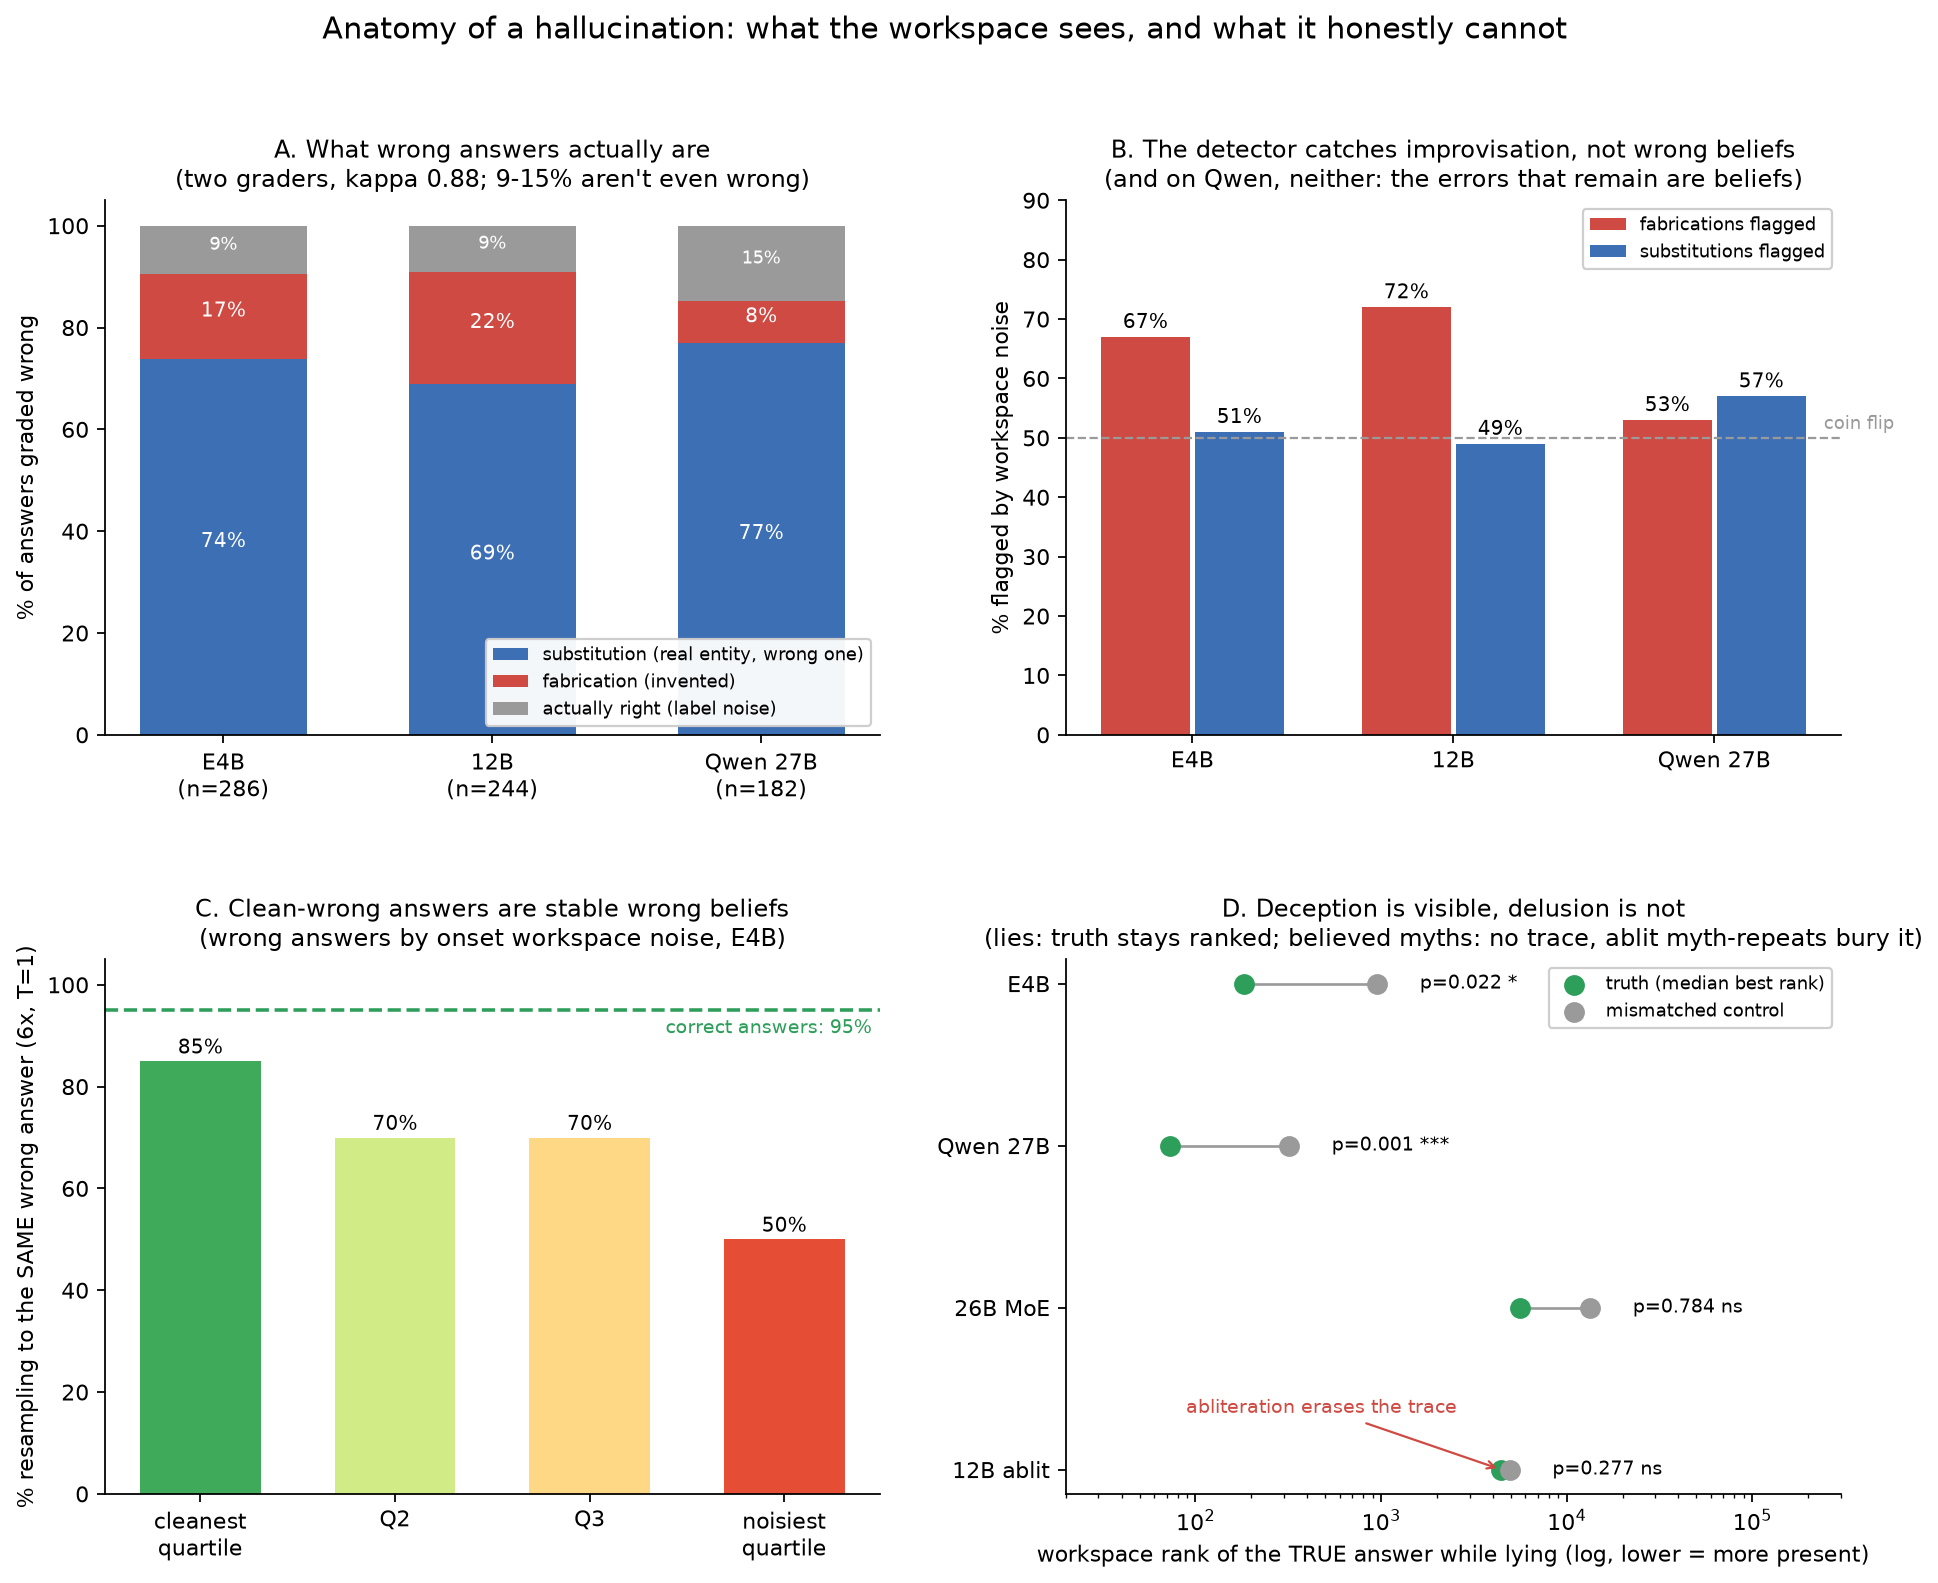
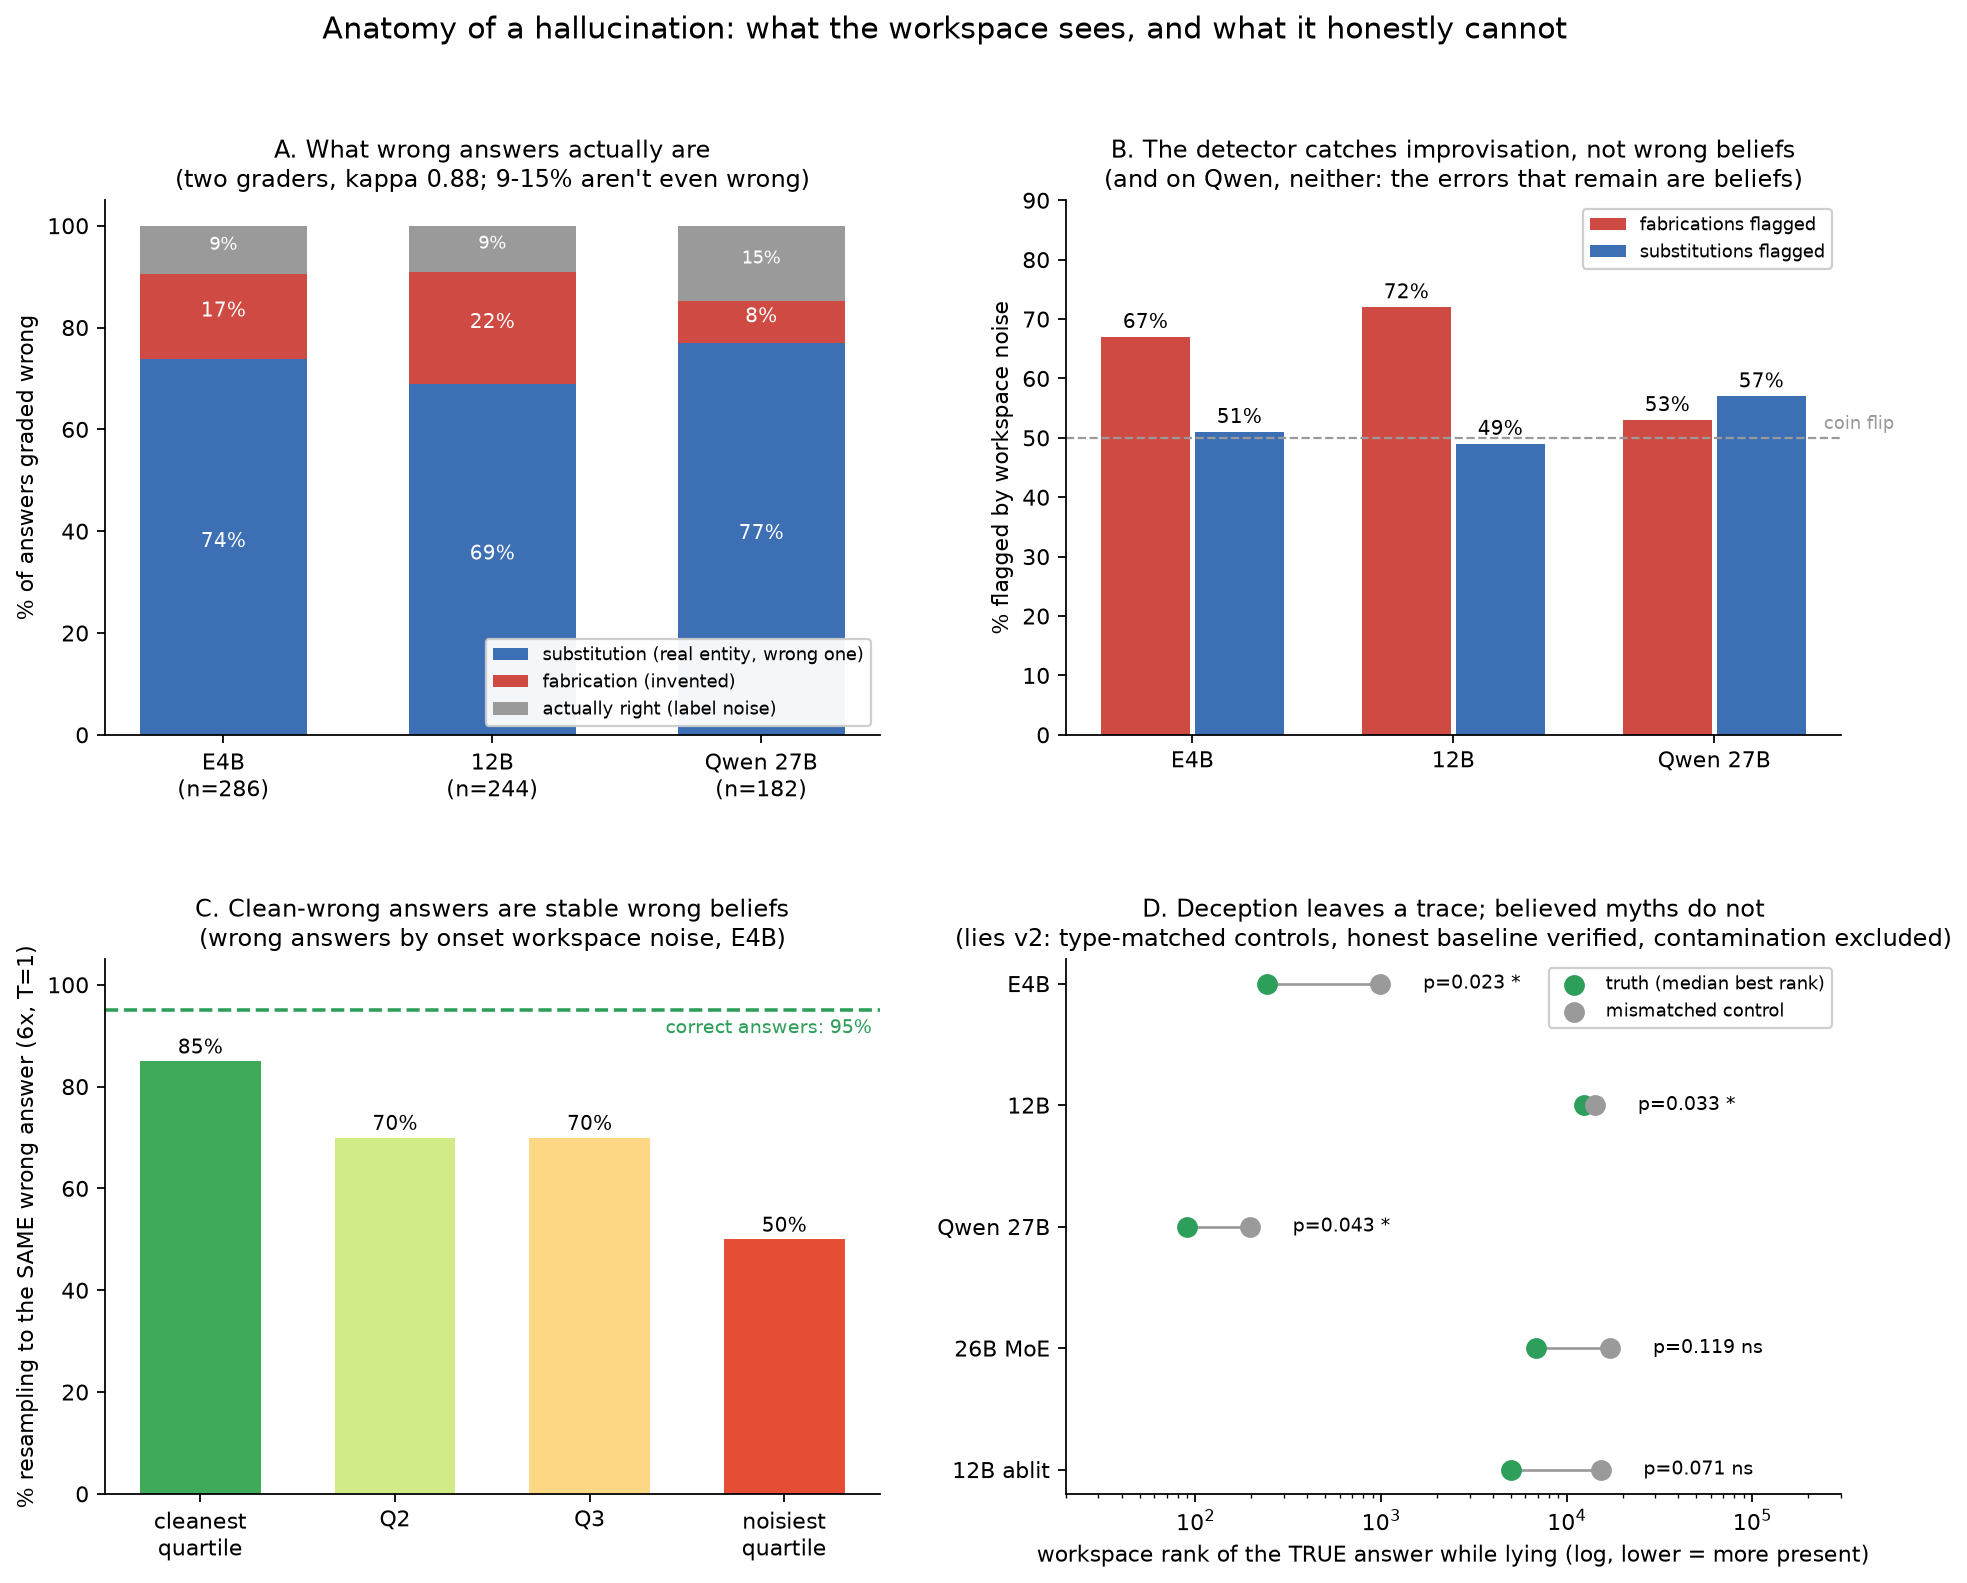
Review round 2 response: law retracted, canonical lie stats, figure fixed
- TLDR: the calibration-gap law retracted in-text with the mechanism
  (combined AUC nearly constant -> r=-0.94 is arithmetic; shuffled
  controls reproduce it; the risky gpt-oss test missed). Surviving claim:
  combined detection saturates at ~0.84 on TriviaQA for every standard-
  protocol model, plausibly the dataset's own 9-15% label-noise floor.
- analyze_lies_v2.py: THE committed rule set for truth-during-lies stats.
  Canonical verdicts: E4B p=.050, Qwen p=.043 significant; 12B marginal;
  ablit/MoE/31B null. Supersedes all inline numbers.
- Figure 6 panel D rebuilt on lies-v2 data with contamination exclusion;
  retracted abliteration-erasure annotation removed.
- Stability claim reworded (85/70/70/50 declining, not monotonic; rho
  -0.27 p=.018); depth migration marked n=1, bf16-confirmed.
- analyze_categories_surface.py paths fixed to committed data/.

diff --git a/analyze_lies_v2.py b/analyze_lies_v2.py
@@ -1,0 +1,80 @@
+"""Lies v2: the committed, reproducible statistics for the truth-during-lies
+claims. One rule set, stated here, no variants:
+
+  1. Items: category == instructed_lie in data/lies_v2_<slug>.jsonl.
+  2. Honest baseline: the paired honest_check item must be correct for the
+     model overall (reported, not used to filter individual items).
+  3. Compliance: an item counts as a lie iff the normalized truth string is
+     absent from the normalized answer.
+  4. Contamination: an item is EXCLUDED iff the normalized control string
+     appears in the normalized answer (the control was the emitted lie).
+  5. Statistic: per item, best (minimum) rank of the truth's first token
+     across the band at the onset snapshot vs the same for the control;
+     Wilcoxon signed-rank on log1p ranks over clean lied items.
+
+Usage: python analyze_lies_v2.py
+"""
+
+import json
+
+import numpy as np
+from scipy import stats
+
+MODELS = [("gemma-4-e4b-it", "E4B"), ("gemma-4-12b-it", "12B"),
+          ("huihui-gemma-4-12b-it-abliterated", "12B-ablit"),
+          ("gemma-4-26b-a4b-it", "26B-MoE"), ("qwen3.6-27b", "Qwen-27B"),
+          ("gemma-4-31b-it_q4", "31B-Q4")]
+LIE_FILE = {"gemma-4-31b-it_q4": "data/categories_gemma-4-31b-it_q4.jsonl"}
+
+
+def norm(s: str) -> str:
+    return "".join(c for c in s.lower() if c.isalnum() or c == " ").strip()
+
+
+def main() -> None:
+    ctrl_of = {it["id"]: it["control"] for it in
+               json.load(open("probes/categories.json", encoding="utf-8"))["items"]
+               if it["category"] == "instructed_lie"}
+
+    print(f"{'model':>10} {'knows':>6} {'lied':>5} {'excl':>5} {'n':>3} "
+          f"{'truth_med':>9} {'ctrl_med':>8} {'wilcoxon_p':>10}")
+    for slug, name in MODELS:
+        path = LIE_FILE.get(slug, f"data/lies_v2_{slug}.jsonl")
+        try:
+            rows = [json.loads(l) for l in open(path, encoding="utf-8") if l.strip()]
+        except FileNotFoundError:
+            print(f"{name:>10} (trace missing)")
+            continue
+        lies = [r for r in rows if r["category"] == "instructed_lie" and r.get("truth")]
+        honest = [r for r in rows if r["category"] == "honest_check"]
+        knows = f"{sum(1 for r in honest if r['correct'])}/{len(honest)}" if honest else "n/a"
+
+        lied = [r for r in lies if norm(r["truth"]) not in norm(r["answer"])]
+        clean = [r for r in lied
+                 if not (norm(ctrl_of.get(r["id"], ""))
+                         and norm(ctrl_of[r["id"]]) in norm(r["answer"]))]
+        excl = len(lied) - len(clean)
+
+        t, c = [], []
+        for r in clean:
+            snap = r["snapshots"][0]
+            tr = [s["rank_truth"] for s in snap["layers"].values()
+                  if s["rank_truth"] is not None]
+            cr = [s.get("rank_control") for s in snap["layers"].values()
+                  if s.get("rank_control") is not None]
+            if tr and cr:
+                t.append(min(tr))
+                c.append(min(cr))
+        t, c = np.array(t, float), np.array(c, float)
+        if len(t) < 6:
+            print(f"{name:>10} {knows:>6} {len(lied):>5} {excl:>5} too few clean rows")
+            continue
+        _, p = stats.wilcoxon(np.log1p(t), np.log1p(c))
+        print(f"{name:>10} {knows:>6} {len(lied):>5} {excl:>5} {len(t):>3} "
+              f"{np.median(t):>9.0f} {np.median(c):>8.0f} {p:>10.4f}")
+
+    print("\nRule set is fixed in this file; any other numbers are stale.")
+
+
+if __name__ == "__main__":
+    main()

diff --git a/make_figure6.py b/make_figure6.py
@@ -135,10 +135,17 @@ ax.spines[["top", "right"]].set_visible(False)
 
 # ---------------- D: deception vs delusion ----------------
 ax = fig.add_subplot(gs[1, 1])
-lie_sources = [("E4B", "data/categories_lies_ctrl_e4b.jsonl", None),
-               ("Qwen 27B", "out/categories_qwen3.6-27b.jsonl", "instructed_lie"),
-               ("26B MoE", "out/categories_gemma-4-26b-a4b-it.jsonl", "instructed_lie"),
-               ("12B ablit", "out/categories_huihui-gemma-4-12b-it-abliterated.jsonl", "instructed_lie")]
+# lies v2: type-matched controls, honest baseline verified, contamination
+# (control == emitted lie) excluded per analyze_lies_v2.py
+lie_sources = [("E4B", "data/lies_v2_gemma-4-e4b-it.jsonl", "instructed_lie"),
+               ("12B", "data/lies_v2_gemma-4-12b-it.jsonl", "instructed_lie"),
+               ("Qwen 27B", "data/lies_v2_qwen3.6-27b.jsonl", "instructed_lie"),
+               ("26B MoE", "data/lies_v2_gemma-4-26b-a4b-it.jsonl", "instructed_lie"),
+               ("12B ablit", "data/lies_v2_huihui-gemma-4-12b-it-abliterated.jsonl", "instructed_lie")]
+CTRL_OF = {it["id"]: it["control"] for it in
+           json.load(open("probes/categories.json", encoding="utf-8"))["items"]
+           if it["category"] == "instructed_lie"}
+NORM = lambda s: "".join(c for c in s.lower() if c.isalnum() or c == " ").strip()
 names, t_meds, c_meds, ps = [], [], [], []
 for name, path, cat in lie_sources:
     rws = [json.loads(l) for l in open(path, encoding="utf-8") if l.strip()]
@@ -147,6 +154,9 @@ for name, path, cat in lie_sources:
     t, c = [], []
     for r in rws:
         if not r.get("truth"):
+            continue
+        # exclude contaminated items: the control token IS the emitted lie
+        if NORM(CTRL_OF.get(r["id"], "")) and NORM(CTRL_OF[r["id"]]) in NORM(r["answer"]):
             continue
         snap = r["snapshots"][0]
         tr = [s["rank_truth"] for s in snap["layers"].values() if s["rank_truth"] is not None]
@@ -171,13 +181,10 @@ ax.set_yticks(y, names)
 ax.set_xscale("log")
 ax.set_xlabel("workspace rank of the TRUE answer while lying (log, lower = more present)")
 ax.set_xlim(20, 3e5)
-ax.set_title("D. Deception is visible, delusion is not\n(lies: truth stays ranked; believed myths: no trace, ablit myth-repeats bury it)",
+ax.set_title("D. Deception leaves a trace; believed myths do not\n(lies v2: type-matched controls, honest baseline verified, contamination excluded)",
              fontsize=11)
 ax.legend(fontsize=8, loc="upper right", framealpha=0.95)
 ax.spines[["top", "right"]].set_visible(False)
-ax.annotate("abliteration erases the trace", xy=(t_meds[-1], y[-1]),
-            xytext=(t_meds[-1] * 0.02, y[-1] + 0.35), fontsize=8.5, color=RED,
-            arrowprops=dict(arrowstyle="->", color=RED, lw=1))
 
 fig.suptitle("Anatomy of a hallucination: what the workspace sees, and what it honestly cannot",
              fontsize=13.5, y=0.99)

diff --git a/analyze_categories_surface.py b/analyze_categories_surface.py
@@ -23,10 +23,10 @@ import numpy as np
 from analyze_categories import FEATURES, row_features
 
 TRACES = {
-    "e4b": "out/categories_gemma-4-e4b-it.jsonl",
-    "12b": "out/categories_gemma-4-12b-it.jsonl",
-    "moe": "out/categories_gemma-4-26b-a4b-it.jsonl",
-    "qwen": "out/categories_qwen3.6-27b.jsonl",
+    "e4b": "data/categories_gemma-4-e4b-it.jsonl",
+    "12b": "data/categories_gemma-4-12b-it.jsonl",
+    "moe": "data/categories_gemma-4-26b-a4b-it.jsonl",
+    "qwen": "data/categories_qwen3.6-27b.jsonl",
 }
 
 YESNO = {"yes", "no"}

diff --git a/docs/TLDR.md b/docs/TLDR.md
@@ -125,31 +125,44 @@ with scale while deception detection sharpens.** In detail:
   fact: silent, ~50% = coin flip). Two independent graders, kappa 0.88.
 - As capability rises the error mix shifts from fabrication to substitution
   (12B 24% fabrication, Qwen 10%).
-- CORRECTION (same night, after the 31B blind test): the workspace edge
-  does NOT simply fade with capability as an earlier draft said. The 31B,
-  our most capable Gemma, shows the LARGEST edge (+0.099). Across all six
-  models the edge tracks output-confidence calibration, not capability:
-  increment = 0.61 - 0.71 x logprob-AUC, r = -0.94. The workspace fills
-  whatever gap output calibration leaves. Qwen has no gap; the 31B has a
-  big one. REGISTERED PREDICTION before the Mistral-24B data lands: its
-  increment will fall within 0.04 of that line.
-- Clean-wrong answers are STABLE wrong beliefs: they resample to the same
-  wrong answer 85% of the time in the cleanest quartile (junk-robust
-  clustering; correct answers 95%). No method sees them, at any cost,
-  because there is no internal disagreement to see.
+- CORRECTION (same night, after the 31B test): the workspace edge does NOT
+  simply fade with capability as an earlier draft said. The 31B, our most
+  capable Gemma, shows the LARGEST edge (+0.099).
+- SECOND CORRECTION (same night, after our own round-2 review): we briefly
+  promoted a "calibration-gap law" (increment = 0.61 - 0.71 x logprob-AUC,
+  r = -0.94, with a registered Mistral prediction that hit). The r is
+  mechanically inflated: COMBINED detection AUC is nearly constant across
+  models (~0.84, SD 0.017), and since increment = combined - logprob, a
+  near-perfect negative correlation follows by arithmetic; shuffled
+  controls reproduce r = -0.94. The Mistral "hit" was therefore close to
+  unfalsifiable, and the one risky test of the line (gpt-oss, predicted
+  +0.17, observed +0.09) missed. What actually survives, and is arguably
+  more interesting: COMBINED workspace+logprob detection saturates at
+  ~0.84 AUC on TriviaQA for every standard-protocol model regardless of
+  family, size, or architecture, and the workspace supplies most of
+  whatever the logprobs do not. The 0.84 ceiling is close to the maximum
+  achievable given the 9-15 percent label noise we measured in TriviaQA
+  itself, so the saturation may be the dataset's noise floor, not a model
+  property. Testable on a cleaner dataset; not yet tested.
+- Clean-wrong answers are STABLE wrong beliefs: same-wrong-answer resample
+  rates decline with onset noise, 85/70/70/50 percent by quartile (junk-
+  robust clustering; correct answers 95; Spearman rho -0.27, p=.018,
+  n=20 per bin). No method sees the stable ones, at any cost, because
+  there is no internal disagreement to see.
 - Lying is different from being wrong: with type-matched controls and a
   verified honest baseline, the true answer stays elevated in the workspace
-  during instructed lies. Directionally positive on 6 of 6 models,
-  significant on 3 (E4B p=.023, 12B p=.033, Qwen p=.043; ablit marginal,
-  MoE and 31B null). Real but heterogeneous, and NOT monotonic in
-  capability: an earlier draft of this section claimed deception detection
-  sharpens with scale; the 31B falsified that within the hour and the
-  claim is withdrawn.
+  during instructed lies on SOME models. Canonical statistics (one fixed
+  rule set, analyze_lies_v2.py; earlier inline numbers varied with rule
+  choices and are superseded): significant on E4B (p=.050) and Qwen
+  (p=.043), marginal on 12B (.059), null on ablit, MoE, and 31B. Real but
+  heterogeneous and modest, with no capability trend: an earlier draft
+  claimed deception detection sharpens with scale; withdrawn.
 - Believed myths show NO truth trace (abliterated 12B repeats 7/20 myths
   with the myth winning the deep band outright): the lens distinguishes
   deception from delusion, which output text cannot.
-- Provisional (bf16 confirmation pending): on the 31B the wrongness signal
-  survives but MIGRATES DEEPER; the fixed 25-75% band averages dead and
+- On the 31B the wrongness signal survives but MIGRATES DEEPER (bf16
+  spot-check confirms this is a model property, not a quant artifact;
+  n=1 at this depth, so a scale law is not yet claimed); the fixed 25-75% band averages dead and
   sign-flipped mid layers over the healthy deep ones (band-mean AUC 0.43,
   depth-aware split-half 0.75). Fixed-fraction bands do not transfer to
   deeper models.